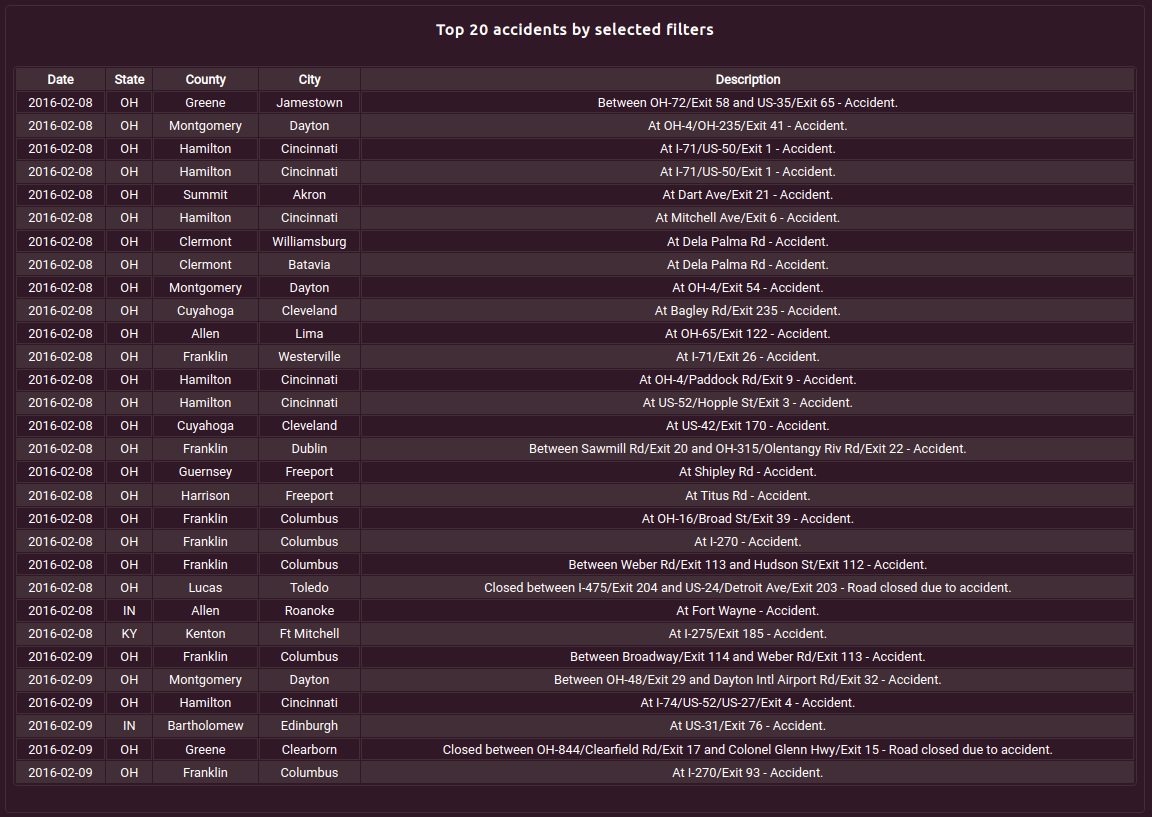
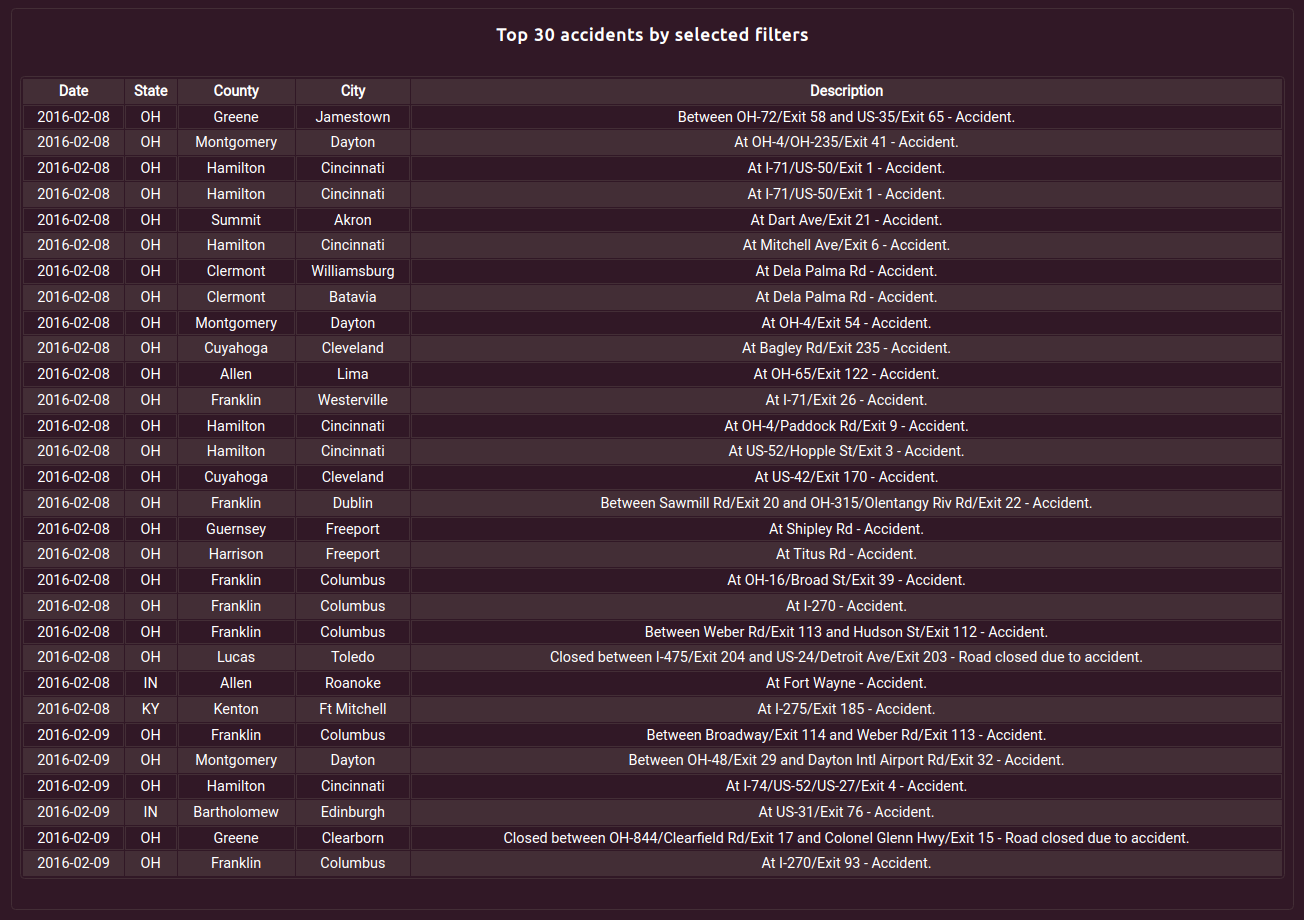
Add more info to README.md

Changed region(s): [[0.375, 0.0918, 0.9062, 0.9486], [0.0312, 0.0918, 0.3125, 0.9486], [0.375, 0.0306, 0.625, 0.0612]]

diff --git a/README.md b/README.md
@@ -4,7 +4,7 @@
 
 [US Traffic Accidents](https://lexach91.github.io/US-accidents/) is a dashboard with interactive charts that visualize data about car accidents that occurred from 2016 to 2020 on the territory of 49 states of the USA.
 
-![site on different devices](assets/documentation/am-i-responsive.png)
+![Website screenshot](assets/documentation/webpage-desktop.png)
 
 ---
 
@@ -33,7 +33,24 @@
 
 ---
 
-## Charts
+## Features
+
+### Before data is loaded:
+- #### Loading screen
+    ![Loading screen](assets/documentation/load-screen.png)
+    - Takes 100 percent of viewport
+    - Shows an animated GIF image ![Loading](assets/images/loading.gif)
+    - Shows the message to the user that the data is loading and they need to wait
+
+- #### Loading screen with an error message
+    ![Loading screen](assets/documentation/load-screen-with-error.png)
+    - Error message appears on the loading screen if there was some error during fetching the data
+
+---
+### After data is loaded:
+- #### Header
+    ![Header](assets/documentation/header.png)
+    - Featured at the top of the page
 
 - #### USA Map Chart
     ![USA map](assets/documentation/us-map.png)
@@ -64,10 +81,92 @@
     - User can select a period of time with the mouse to apply filters to other charts
     - Chart created with DC.js library (dc.barChart)
 
-- #### Top 10 States, Counties, And Cities
+- #### Top 10 States, Counties, And Cities charts
     ![Top 10 States, Counties, And Cities row charts](assets/documentation/tops.png)
 
     - These row charts show top 10 States, Counties, and Cities by the amount of accidents
     - Each row can be clicked to apply filters to other charts
     - Hovering above each row will show a tooltip with the name of the state, county, or city and the amount of accidents
     - Charts created with DC.js library (dc.rowChart)
+
+- #### Severity chart
+    ![Severity of an impact on traffic row chart](assets/documentation/severity.png)
+    - This row chart shows the level of an impact on traffic
+    - Each row can be clicked to apply filters to other charts
+    - Hovering above each row will show a tooltip with the level of severity and the amount of accidents
+    - Chart created with DC.js library (dc.rowChart)
+
+- #### Time of a day during accident chart
+    ![Day night pie chart](assets/documentation/day-night.png)
+
+    - This pie chart shows the amount of accidents happen during the day time, and night time.
+    - User can apply filters to other charts by clicking on "Day" or "Night"
+    - Hovering above "Day" and "Night" will show a tooltip with the time of the day and the amount of accidents
+    - Chart created with DC.js library (dc.pieChart)
+
+- #### Accidents by day of a week chart
+    ![weekday row chart](assets/documentation/weekday.png)
+    - This row chart shows the amount of accidents for each day of a week
+    - Each row can be clicked to apply filters to other charts
+    - Hovering above each row will show a tooltip with the day of the week and the amount of accidents
+    - Chart created with DC.js library (dc.rowChart)
+
+- #### Table on aggregated data
+    ![data table](assets/documentation/table.png)
+    - The table shows top 30 accidents from the aggregated data
+    - The table is affected by the filters applied to the other charts
+    - The table's columns:
+        + Data
+        + State
+        + County
+        + City
+        + Description
+    - The table created with DC.js library (dc.dataTable)
+
+- #### Footer
+    ![Footer](assets/documentation/footer.png)
+        - Positioned at the bottom of the page
+        - Contains information about the dataset and the libraries used to create the website
+        - Contains information about the website developer and links the social networks
+
+---
+### Testing
+
+- I tested the website in different browsers: Chrome, Firefox, Brave, Opera
+- I confirmed that the loading screen is displayed while data is fetching and is hidden when the charts are drawn
+- I confirmed that the error message is shawn to the user on the loading screen if an error occurred while fetching the data
+- I confirmed that the data is loading and charts are displayed correctly
+- I confirmed that the header and the footer are displayed correctly
+- I confirmed that the website is responsive and displayed correctly on all common screen sizes
+
+#### Validator testing
+- HTML
+    + No errors were returned when passing through the official W3C validator:
+    ![W3C HTML validator results](assets/documentation/w3c-html.png)
+- CSS
+    + No errors were returned when passing through the official (Jigsaw) validator:
+    ![Jigsaw CSS validator results](assets/documentation/jigsaw-css.png)
+    + However, 7 warnings were returned, which have no impact on page display:
+    ![CSS warnings](assets/documentation/css-warnings.png)
+- Javascript
+    + Jshint returned an error about undefined variables d3, dc, and crossfilter. These variables do not need to be defined by me, because they are imported directly from the libraries I used to create this website:
+    ![jshint validator results](assets/documentation/jshint.png) 
+- Responsiveness
+    + Tools that were used to check the website responsiveness:
+        - [Responsive Design Checker](https://responsivedesignchecker.com/):
+        ![responsive design checker results](assets/documentation/resposive-design-checker.gif)
+        - [Am I Responsive](https://responsivedesignchecker.com/):
+        ![am i responsive results](assets/documentation/am-i-responsive.png)
+        - Chrome Developer tools:
+            + Website on desktop:
+            ![Website on desktop](assets/documentation/webpage-desktop.png)
+            + Website on mobile:
+            ![Website on mobile](assets/documentation/webpage-mobile.png)
+
+---
+#### Bugs
+- ##### Solved bugs:
+    + When I just started to work on my project I decided to use Bootstrap library to minimize writing my own CSS, but I encountered an issue with displaying of all row charts on the page. As I found out later it was because of the conflict of two libraries: bootstrap and dc.js. They both use css class "row", but for different purposes. So, when I stopped using bootstrap, all charts were displayed correctly again. 
+    + At the beginning I wanted to plot all accidents locations from the dataset to the scatter plot. But plotting 1.5M points on one chart was taking an enormous amount of time, and the page became almost unusable. So, I decided not to use this kind of chart on my page.
+- ##### Unsolved bugs:
+    + The website doesn't work on the mobile version of Brave browser. The reason remains unknown. But other mobile browsers, such as Google Chrome, Opera, and Firefox don't have such an issue.
